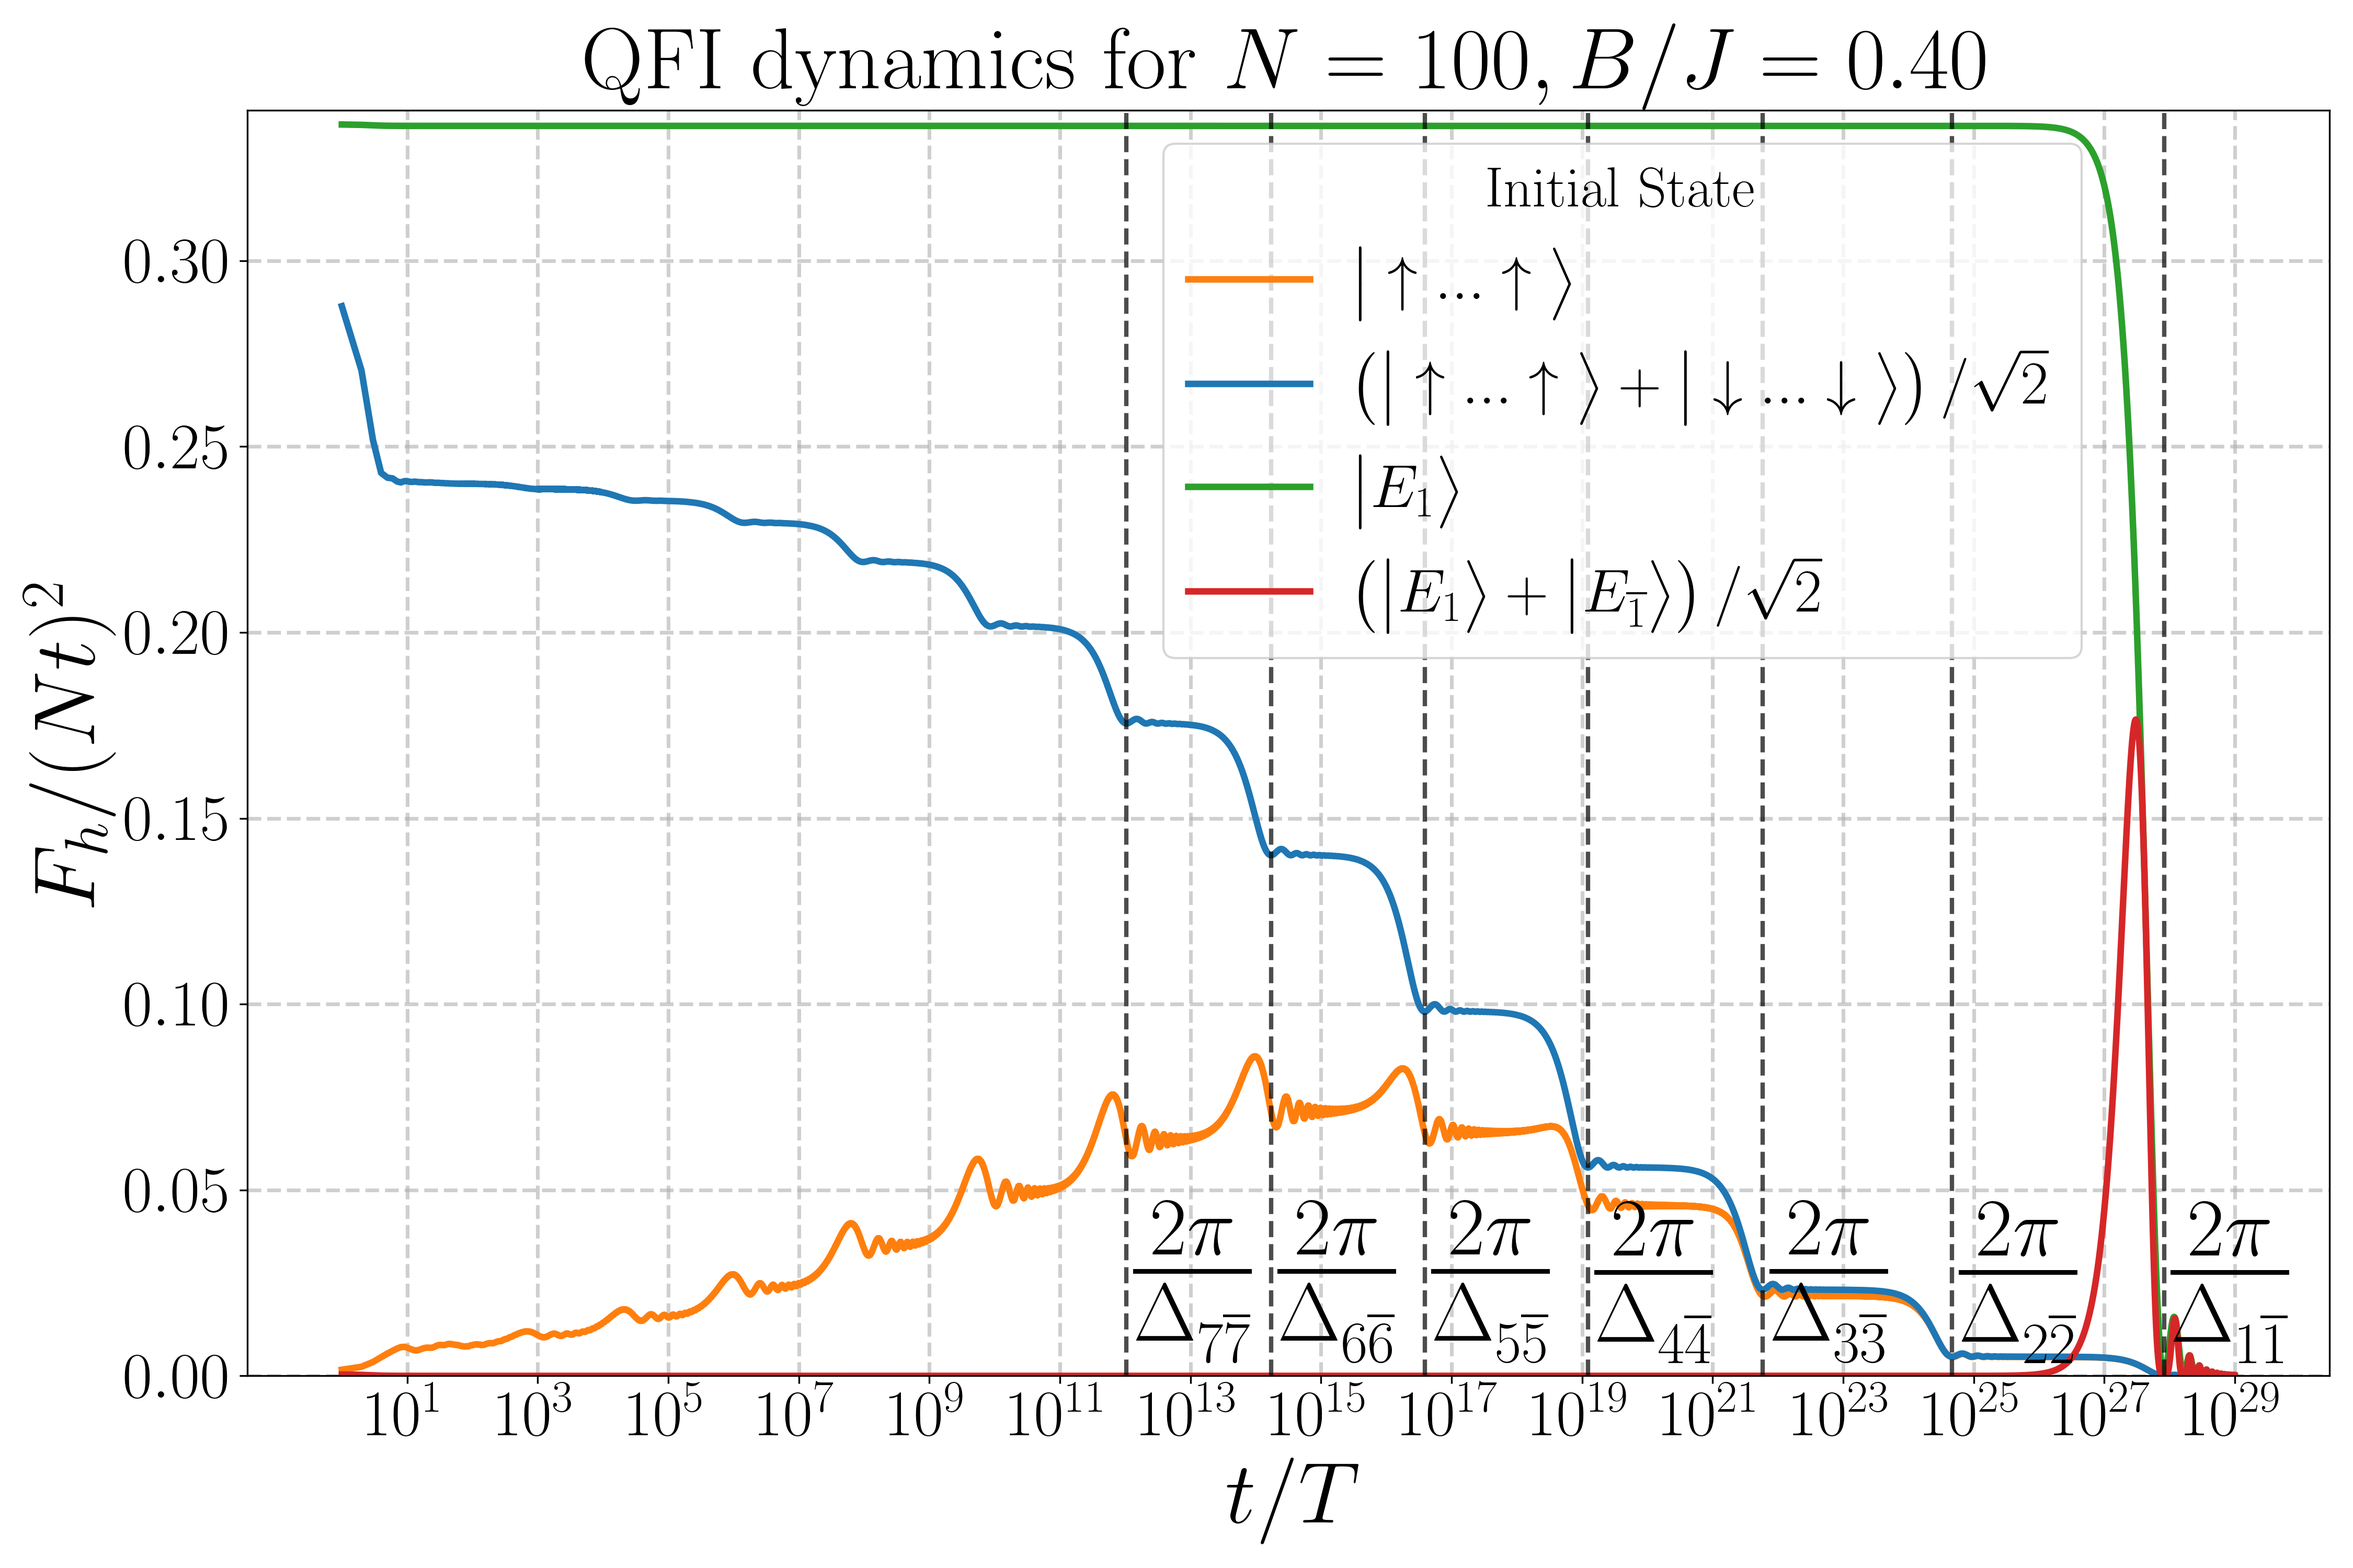
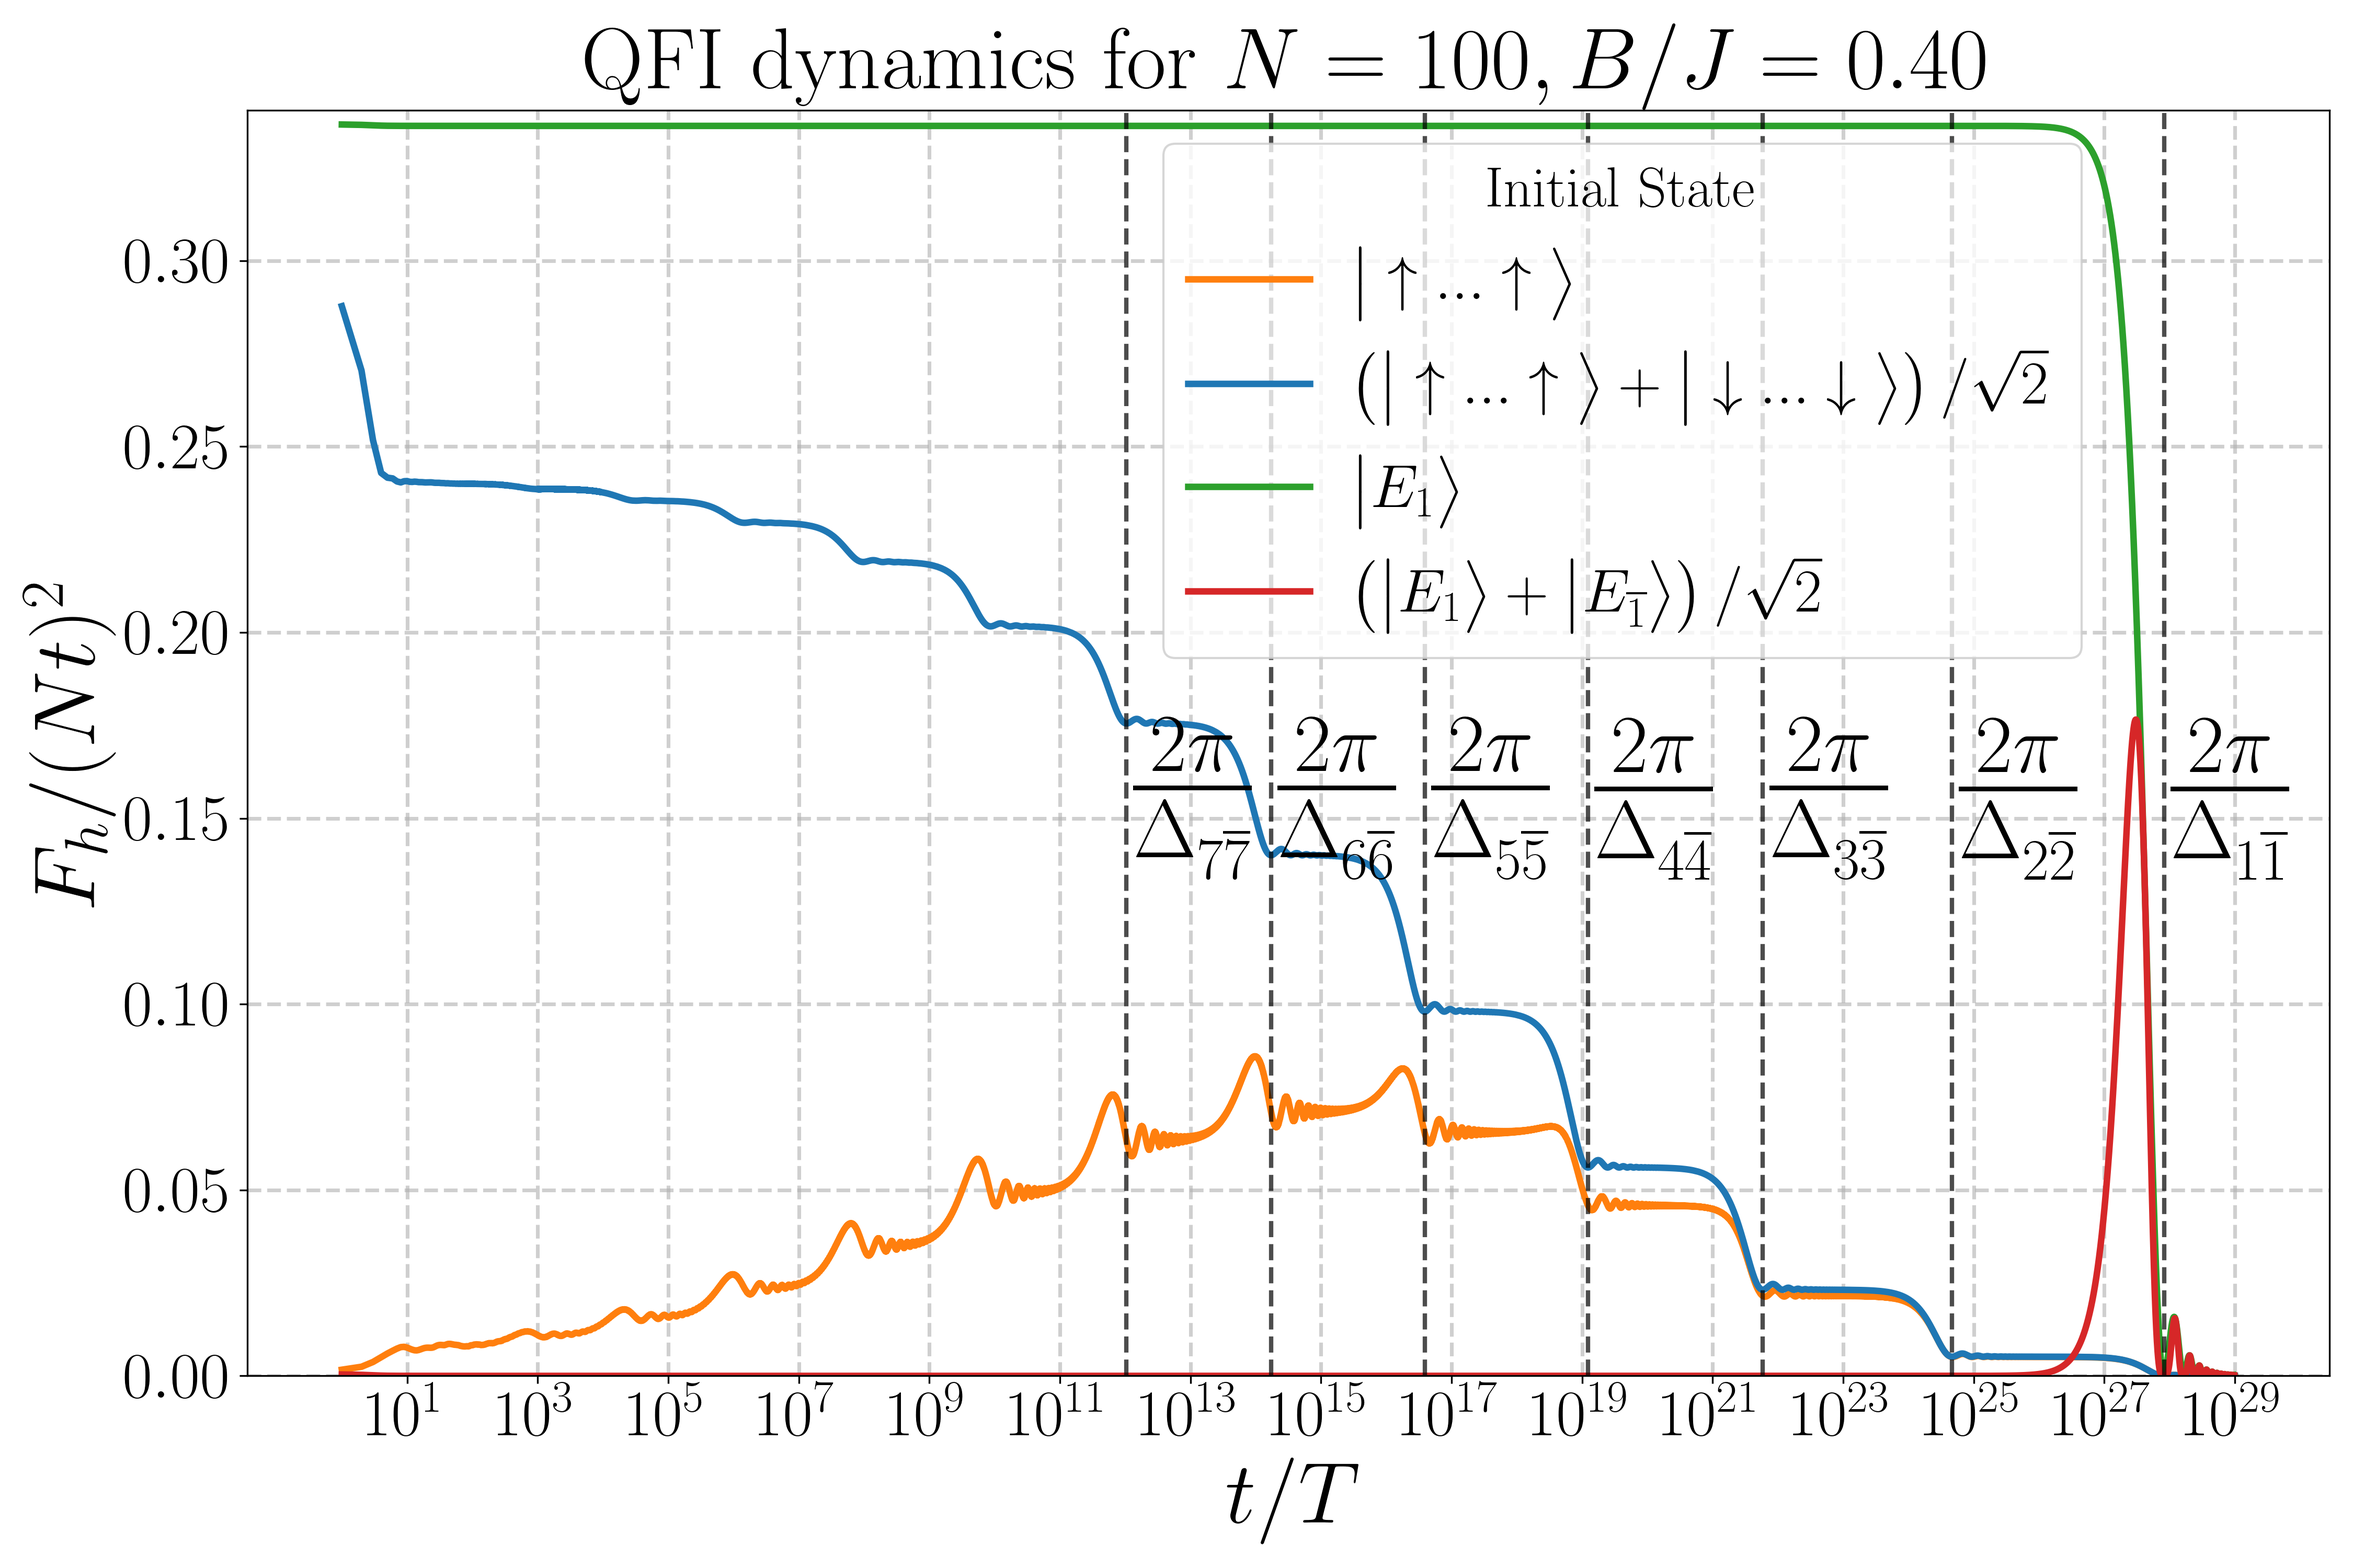
Put the N = 100 plot's 2pi/Delta labels at 0.15
Labels at 0.15, 0.1 decades right of their lines; the legend stays in the
free space right of t = 1e12.5.

diff --git a/fortran/README.md b/fortran/README.md
@@ -233,7 +233,7 @@ about 100 times denser than the standard one: every period up to 10⁴ and
 uv run python fortran/scripts/dense_time_grid.py --system-size 100 times_N100.txt
 fortran/build/lmg_qfi --system-size 100 --steps 250 --times-file times_N100.txt --output-dir results/dense
 uv run python fortran/scripts/plot_results.py results/dense 100 \
-    --label-y 0.02 --label-offset 0.1 --legend-loc 0.44 0.567
+    --label-y 0.15 --label-offset 0.1 --legend-loc 0.44 0.567
 ```
 
 `plot_results.py` draws the curves with the package's plotting function but
@@ -241,8 +241,8 @@ reads only the solver's files, so they are not mixed with mpmath files of
 the same N. `--label-y` and `--label-offset` place the 2π/Δ labels (height
 on the y axis, distance right of their line in decades; defaults 0.155 and
 3% of the line position) and `--legend-loc` the legend (lower-left corner in
-axes fractions, default 0.35 0.567). The N = 100 plot puts the labels near
-the bottom and the legend in the free space right of t = 10¹²·⁵.
+axes fractions, default 0.35 0.567). The N = 100 plot has the labels at
+0.15 and the legend in the free space right of t = 10¹²·⁵.
 
 On 20 CPUs N = 60 takes 13 min for all four initial states and
 N = 100 about 10 min per initial state (one array task each). N = 100 runs to
